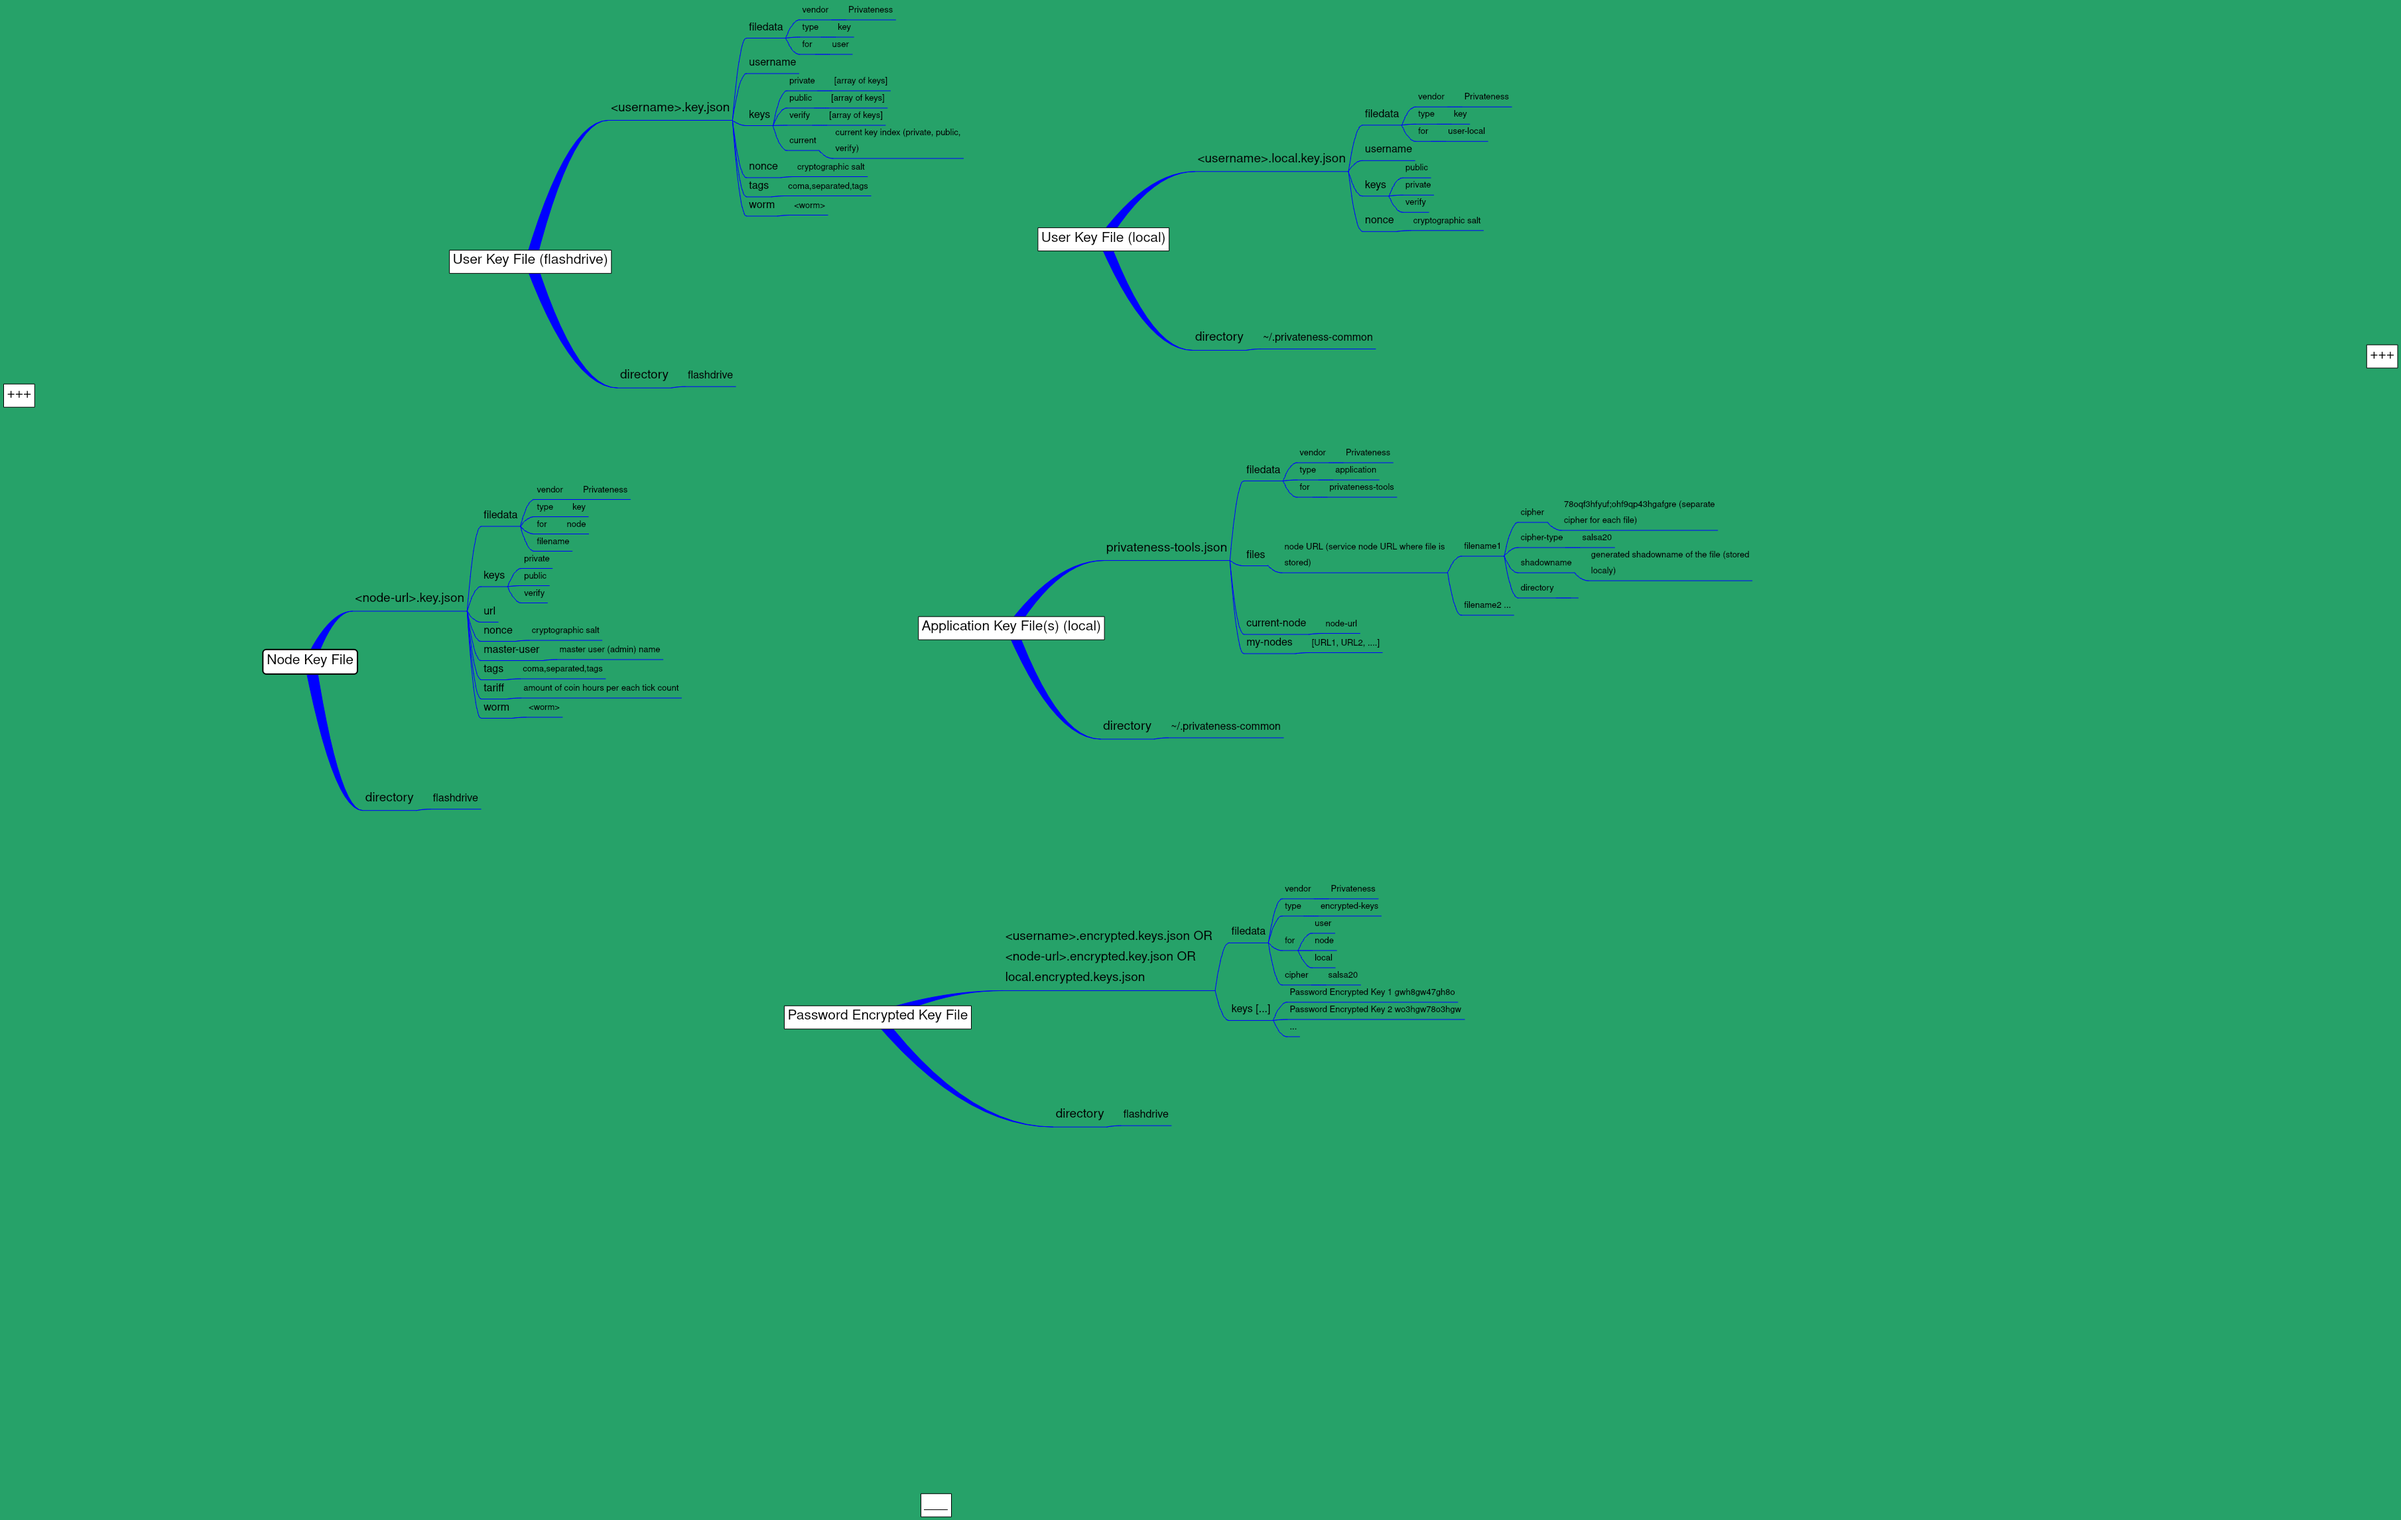
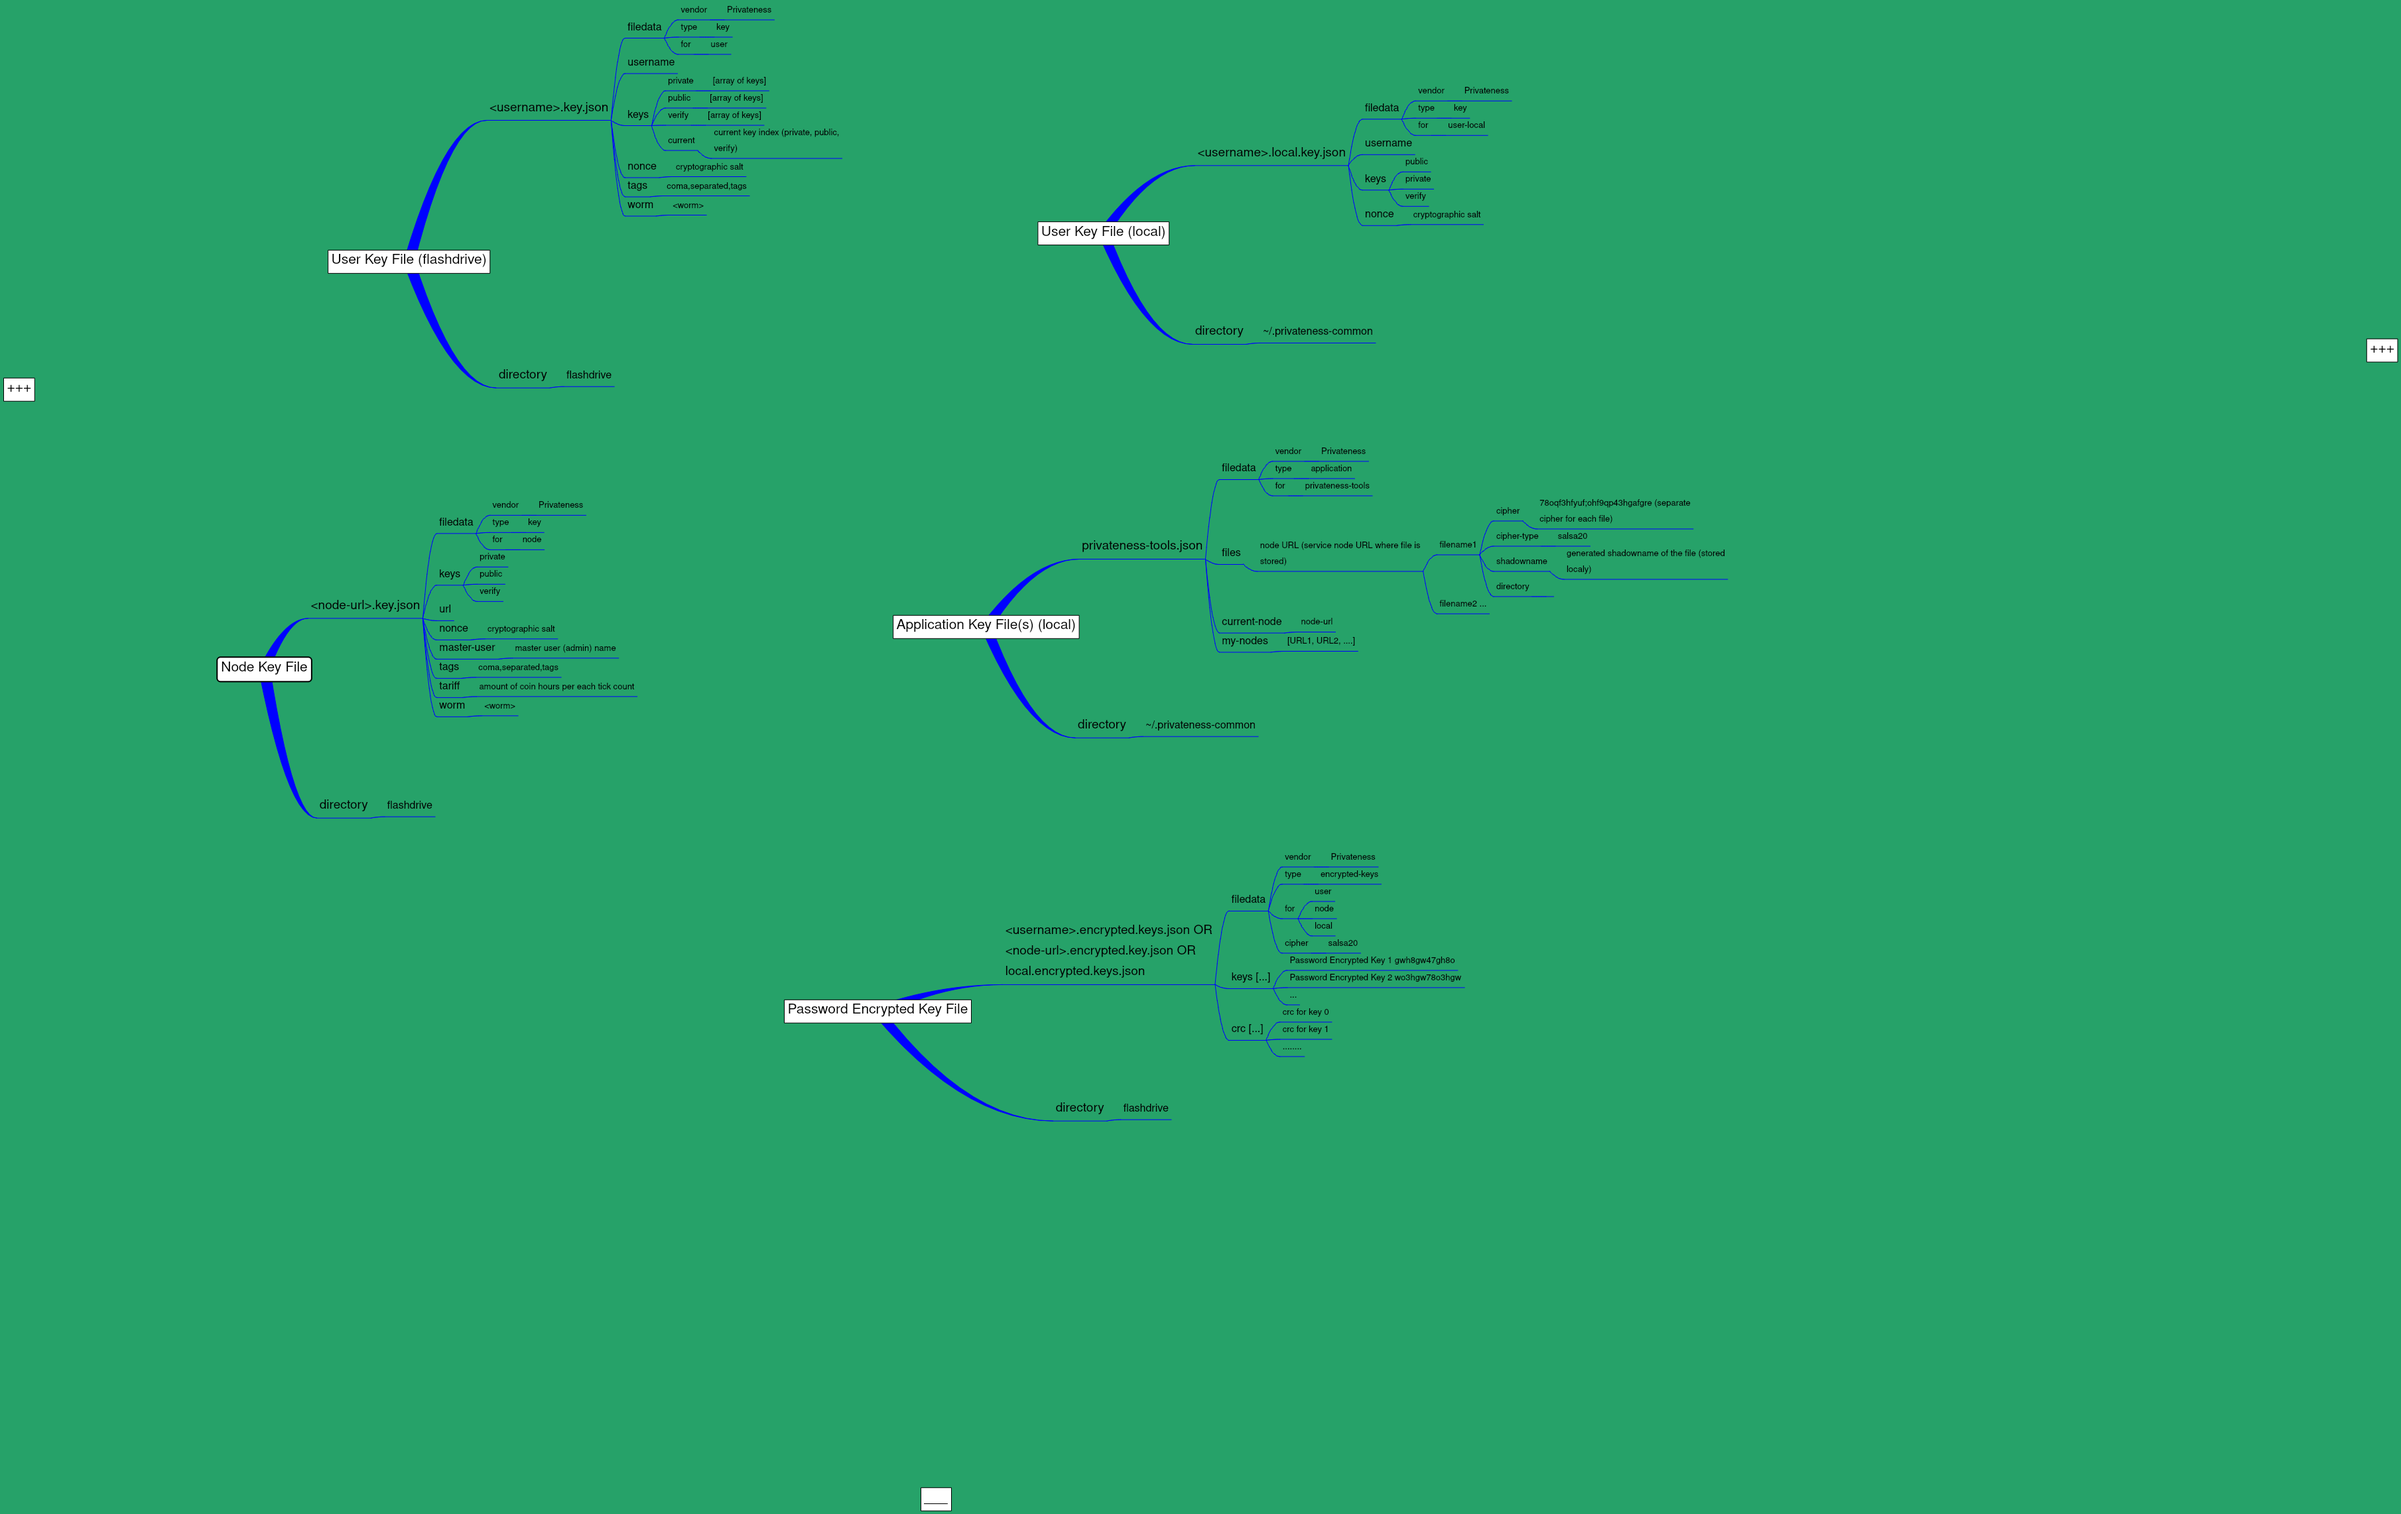
Keys update

diff --git a/Keys.md b/Keys.md
@@ -14,8 +14,6 @@ Node Key File
   - for
     - node
 
-  - filename
-
 
 ### keys
   - private
@@ -214,6 +212,12 @@ Password Encrypted Key File
   - Password Encrypted Key 1 gwh8gw47gh8o
   - Password Encrypted Key 2 wo3hgw78o3hgw
   - ...
+
+
+### crc [...]
+  - crc for key 0
+  - crc for key 1
+  - ........
 
 
 directory
